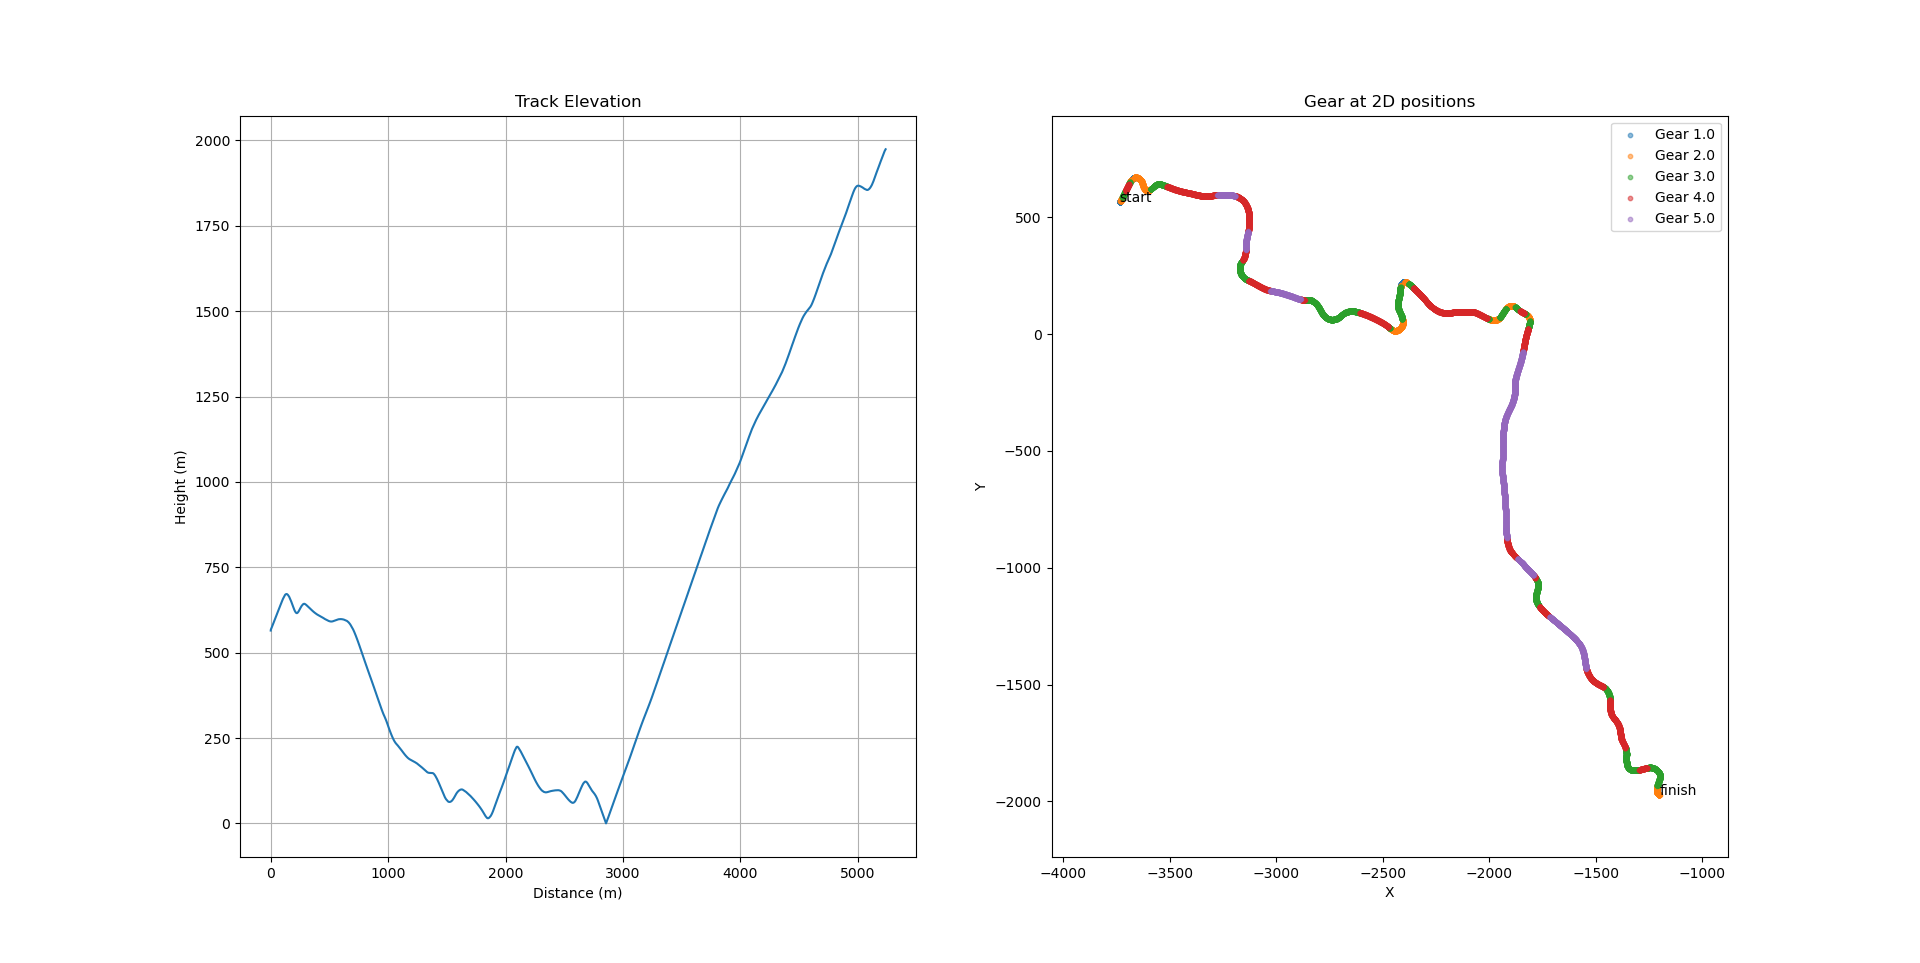
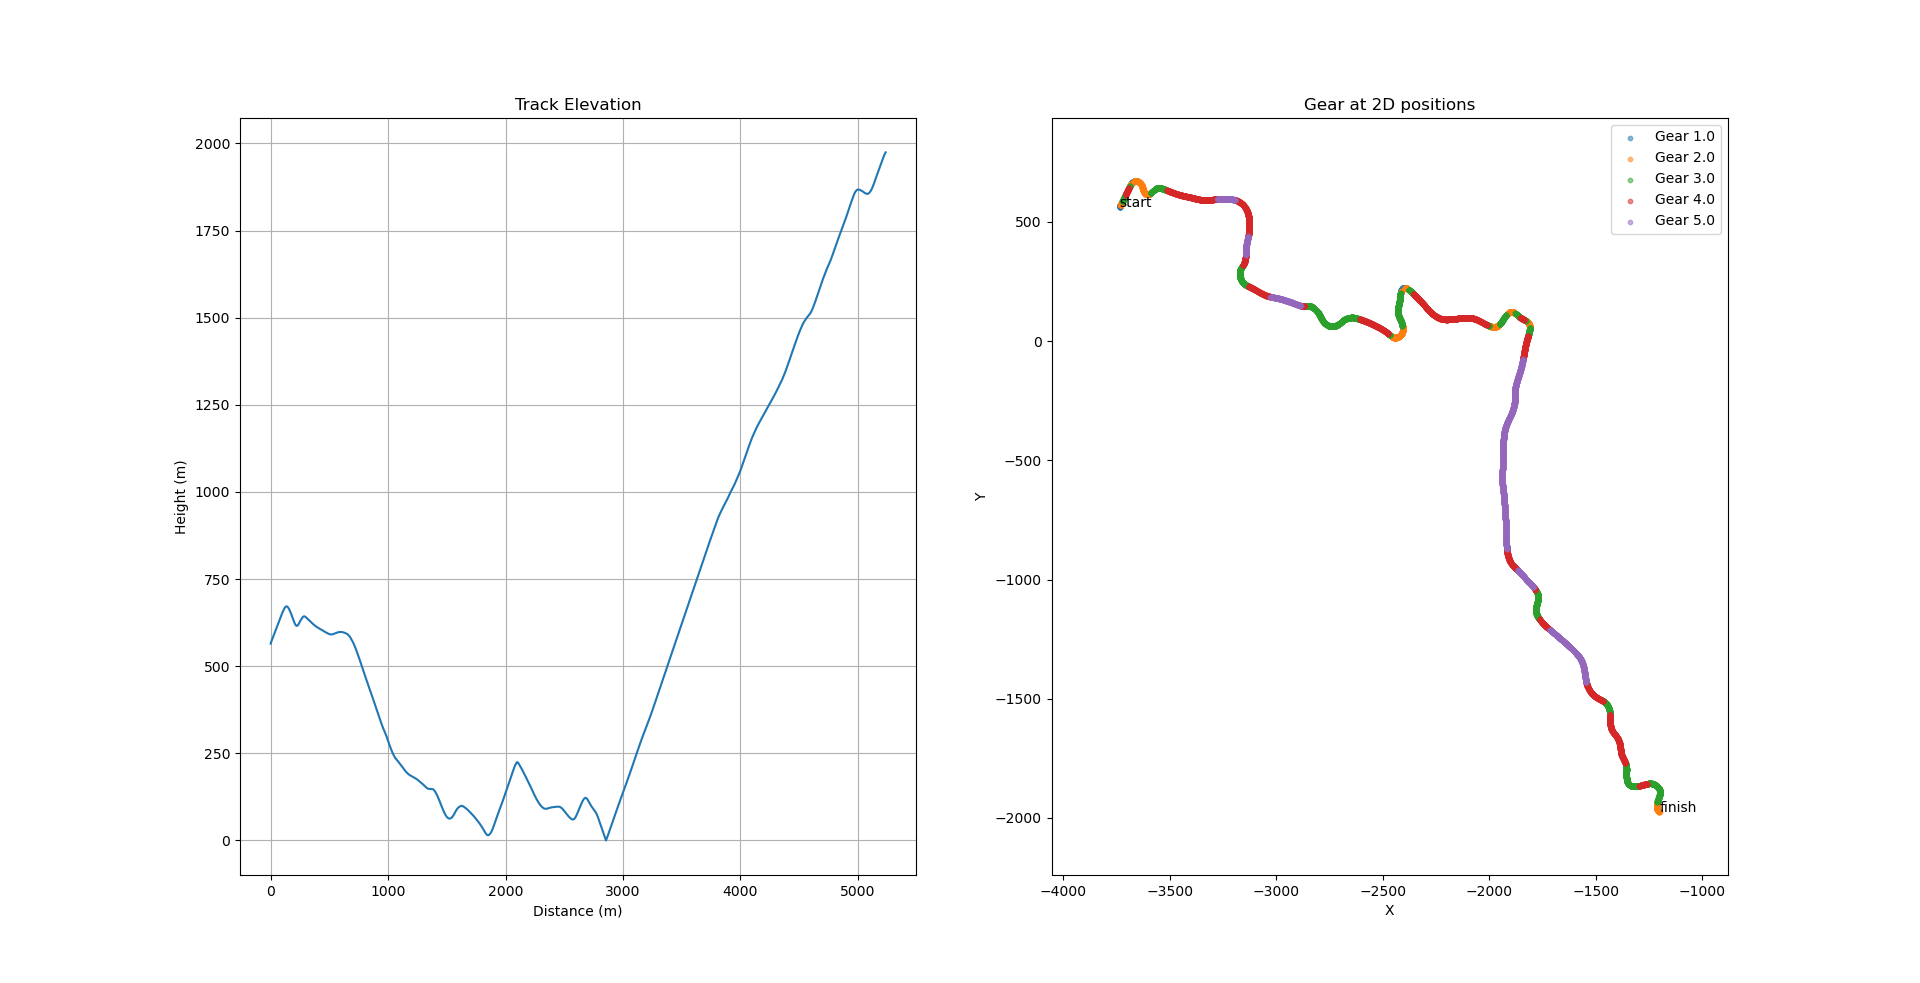
smaller fixes for optimal RPM arrows and plot legend, update readme

diff --git a/source/plots.py b/source/plots.py
@@ -349,7 +349,7 @@ def bar_plot(ax, data, weights, num_bins=20,
             if np.isnan(optimal_rpm_for_gear):
                 continue
             bin_edges_smaller = bin_edges <= optimal_rpm_for_gear
-            highlight_bin = np.sum(bin_edges_smaller) - (float(num_series) * 0.5) * width
+            highlight_bin = np.sum(bin_edges_smaller) - 1 - (float(num_series) * 0.5) * width
             highlight_bin_series_center = highlight_bin + (gear_id + 0.5) * width
             ax.arrow(highlight_bin_series_center, 0.0, 0.0, np.max(data_bin_sum) * 1.05,
                      head_width=0.05, head_length=0.2, fc=static_colors[gear_id], ec=static_colors[gear_id])
@@ -367,6 +367,8 @@ def plot_optimal_rpm_region(ax: matplotlib.axes, plot_data: pd.PlotData):
     gears_sorted = np.sort(tuple(acc_rpm_regressor.keys()))
     for gi, gear in enumerate(gears_sorted):
         model = acc_rpm_regressor[gear]
+        labels.append('Gear {}: Optimum at {:.0f}, shift up at {:.0f} RPM'.format(
+            gear, rpm_optimum_per_gear[gear], rpm_shift_up_point_per_gear[gear]))
         if model is None:
             continue
         acc_eval = model.predict(evaluation_range[:, np.newaxis])
@@ -378,8 +380,6 @@ def plot_optimal_rpm_region(ax: matplotlib.axes, plot_data: pd.PlotData):
         segments = np.concatenate([points[:-1], points[1:]], axis=1)
         lc = LineCollection(segments, linewidths=line_width[:-1], color=static_colors[gi], alpha=0.5)
         ax.add_collection(lc)
-        labels.append('Gear {}: Optimum at {:.0f}, shift up at {:.0f} RPM'.format(
-            gear, rpm_optimum_per_gear[gear], rpm_shift_up_point_per_gear[gear]))
     ax.legend(labels)
 
 

diff --git a/docs/example.md b/docs/example.md
@@ -37,19 +37,22 @@ Improved:
 
 In the default setup, the first gear was only used at the start and therefore pretty useless. I used the other gears very differently: I used the third and fourth much more than the second gear and fifth gears. This depends on my manual shifting, of course. I tried to shift at the optimal RPM or at least before the RPM meter turns red.
 
-In my improved setup, I used the gears much more equally. The first gear is a bit special because I tuned it so that I can use it through the sharpest corners, which is still less than the other gears. I spent significantly more time near the optimal RPM range.
+In my improved setup, I used the gears much more equally. The first gear is a bit special because I tuned it so that I can use it through the sharpest corners, which results in less usage overall than the other gears. I spent significantly more time near the optimal RPM range. Remember that the true optima have usually a slightly higher RPM value than predicted.
 
 
-
-## Speed over RPM ##
+## Acceleration over RPM ##
 
 Default:
-![RPM](../img/plots/default/Speed_over_RPM_-_Renault_5_Turbo_on_AU,_Monaro,_Noorinbee_Ridge_Descent.png)
+![RPM](../img/plots/default/Forward_G-Force_-_Renault_5_Turbo_on_AU,_Monaro,_Noorinbee_Ridge_Descent.png)
 
 Improved:
-![RPM](../img/plots/final/Speed_over_RPM_-_Renault_5_Turbo_on_AU,_Monaro,_Noorinbee_Ridge_Descent.png)
+![RPM](../img/plots/final/Forward_G-Force_-_Renault_5_Turbo_on_AU,_Monaro,_Noorinbee_Ridge_Descent.png)
 
-With the default setup, you can see again that I didn't use the first gear after the start anymore and it didn't cover the optimal RPM range. Also, I couldn't use the 5th gear in the optimal RPM range because I couldn't reach the necessary speed. The other gears span the optimal RPM range but overlap to some degree. The improved setup is much more regular and more centered around the optimal RPM.
+Since most samples are filtered out in this plot, it's not really meaningful on its own. However, it indicates how accurate the predictions of the optimal shift point and maximum power output are.
+
+In the default setup, there are no samples of gear 1, which indicates that it is hardly used and has too much slip. Also, the curve of gear 2 is very different than the others, which indicates many noisy samples.
+
+In the optimized setup, the predicted curves are quite similar, except for the first gear, which is still much more plausible than the first two gears in the default setup.
 
 
 ## Suspension ##
@@ -87,6 +90,17 @@ Improved:
 The car rotations have much lower frequencies than the suspension angles, as it should probably be. With the improved setup, the body rotation is reduced a lot, which improves stability and control. As shown with the increased variance, the suspension absorbs more bumps now than with the default setup.
 
 
+## Bonus: Speed over RPM ##
+
+Default:
+![RPM](../img/plots/default/Speed_over_RPM_-_Renault_5_Turbo_on_AU,_Monaro,_Noorinbee_Ridge_Descent.png)
+
+Improved:
+![RPM](../img/plots/final/Speed_over_RPM_-_Renault_5_Turbo_on_AU,_Monaro,_Noorinbee_Ridge_Descent.png)
+
+With the default setup, you can see again that I didn't use the first gear after the start anymore and it didn't cover the optimal RPM range. Also, I couldn't use the 5th gear in the optimal RPM range because I couldn't reach the necessary speed. The other gears span the optimal RPM range but overlap to some degree. The improved setup is much more regular and more centered around the optimal RPM.
+
+
 ## Bonus: Power over RPM ##
 
 Default:
@@ -96,17 +110,6 @@ Improved:
 ![RPM](../img/plots/final/Power_Output_-_Renault_5_Turbo_on_AU,_Monaro,_Noorinbee_Ridge_Descent.png)
 
 In the improved setup, you can see clusters that are more centered around the predicted optimal RPM value.
-
-
-## Bonus: Acceleration over RPM ##
-
-Default:
-![RPM](../img/plots/default/Forward_G-Force_-_Renault_5_Turbo_on_AU,_Monaro,_Noorinbee_Ridge_Descent.png)
-
-Improved:
-![RPM](../img/plots/final/Forward_G-Force_-_Renault_5_Turbo_on_AU,_Monaro,_Noorinbee_Ridge_Descent.png)
-
-In the default setup, you can see rather distinct clusters for the gears, and the polynomials are quite irregular, which indicates that the gears are tuned unequally. In the optimized setup, the clusters are mostly overlapping, and the maxima are almost at the same RPM value, which is assumed to be the optimum.
 
 
 ## Bonus: Drift Angles ##

diff --git a/docs/plots_description.md b/docs/plots_description.md
@@ -6,16 +6,20 @@ This document describes the plots available in the logger.
 
 ![RPM](../img/plots/final/RPM_Histogram_per_Gear_-_Renault_5_Turbo_on_AU,_Monaro,_Noorinbee_Ridge_Descent.png)
 
-This plot shows how much time you spent in which gear at which RPM. The predicted optimal RPM range is highlighted in green.
+This plot shows how much time you spent in which gear at which RPM. The predicted optimal RPM range is highlighted with a transparent colored background, meaning that staying in RPM ranges with white background should be avoided. The arrows show the RPM point with the highest predicted power output. You should maximize the time near these points.
 
 A note on my data analysis: There can be too much shifting as each shift costs around 0.1 s where the engine can't transfer power to the wheels. That's if you use modern cars. Older cars have longer times.
 
 
-## Speed over RPM ##
+## Acceleration over RPM ##
 
-![RPM](../img/plots/final/Speed_over_RPM_-_Renault_5_Turbo_on_AU,_Monaro,_Noorinbee_Ridge_Descent.png)
+![RPM](../img/plots/final/Forward_G-Force_-_Renault_5_Turbo_on_AU,_Monaro,_Noorinbee_Ridge_Descent.png)
 
-This plot shows the speed at varying RPM. The predicted optimal RPM value is marked with a green bar. The mean values of the gear samples are marked as crosses. The lines are polynomials of degree 3 fitted into the samples. The optimal RPM is the median of their derivatives' maxima location.
+This plot shows the forward acceleration over RPM. Only samples with full throttle and without breaking factors are shown here. This filters out, e.g. samples close to gear changes, during drifts and with notable slip. As the data is very noisy these conditions need to be very strict, which in turn may filter out all samples of a gear. This happens often to the first gear, especially on gravel because there is usually a lot of slip involved and little time without shifting. When the fitting and optima prediction is not possible 'nan' is displayed. The mean values of the gear samples are marked as crosses. 
+
+The lines are polynomials of degree 3 fitted into the samples and forced to zero power at zero RPM. To get cleaner curves and more reliable predictions, you should do a test run and accelerate in each gear from the lowest to the highest possible RPM value. Samples tend to be missing more often in lower RPM regions, which also skews the predicted optima. So, the true maximal power output and optimal shift points are probably a bit higher than the predicted ones.
+
+The optimal shift point is shown where the thick lines turn into thin ones. The predicted power output after this point is lower than the maximum output in the next gear. It's unlikely to immediately hit the maximum in the next gear so it's usually better to shift up a bit later than indicated here.
 
 
 ## Suspension ##
@@ -66,11 +70,11 @@ This plot shows your car's kinetic and potential energy over time. It also shows
 This plot shows the power output (change of kinetic energy) of your car depending on the RPM. In the improved setup, you can see clusters that are more centered around the predicted optimal RPM value.
 
 
-## Acceleration over RPM ##
+## Speed over RPM ##
 
-![RPM](../img/plots/final/Forward_G-Force_-_Renault_5_Turbo_on_AU,_Monaro,_Noorinbee_Ridge_Descent.png)
+![RPM](../img/plots/final/Speed_over_RPM_-_Renault_5_Turbo_on_AU,_Monaro,_Noorinbee_Ridge_Descent.png)
 
-This plot shows the forward acceleration over RPM. The mean values of the gear samples are marked as crosses. The lines are polynomials of degree 3 fitted into the samples.
+This plot shows the speed at varying RPM. The predicted optimal RPM value is marked with a green bar. The mean values of the gear samples are marked as crosses. The lines are polynomials of degree 3 fitted into the samples.
 
 
 ## Drift Angles ##

diff --git a/README.md b/README.md
@@ -41,7 +41,7 @@ Due to ambiguous data (exactly the same idle/max RPM and number of gears), the f
 - Skoda Fabia Rally and Subaru WRX STI RX
 - Skoda Fabia R5 and Volkswagen Polo GTI R5
 
-[Here are more details for developers covering hwo to run the Python code directly, how to build an executable and which information is available.](docs/implementation.md)
+[Here are more details for developers covering how to run the Python code directly, how to build an executable and which information is available.](docs/implementation.md)
 
 
 ## License ##
